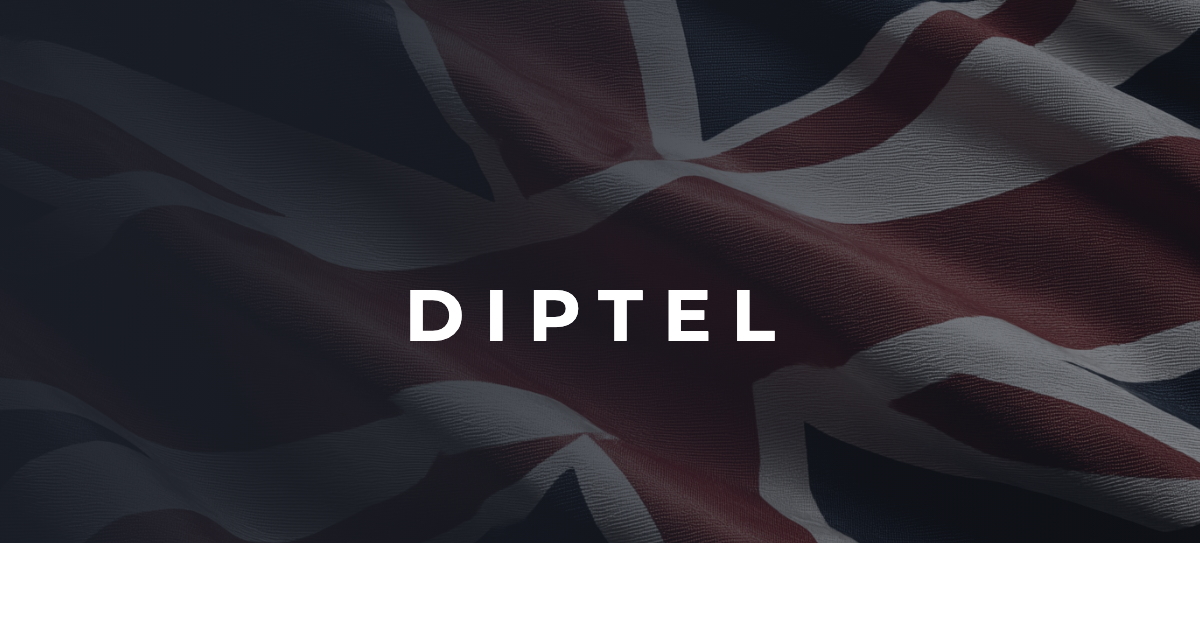
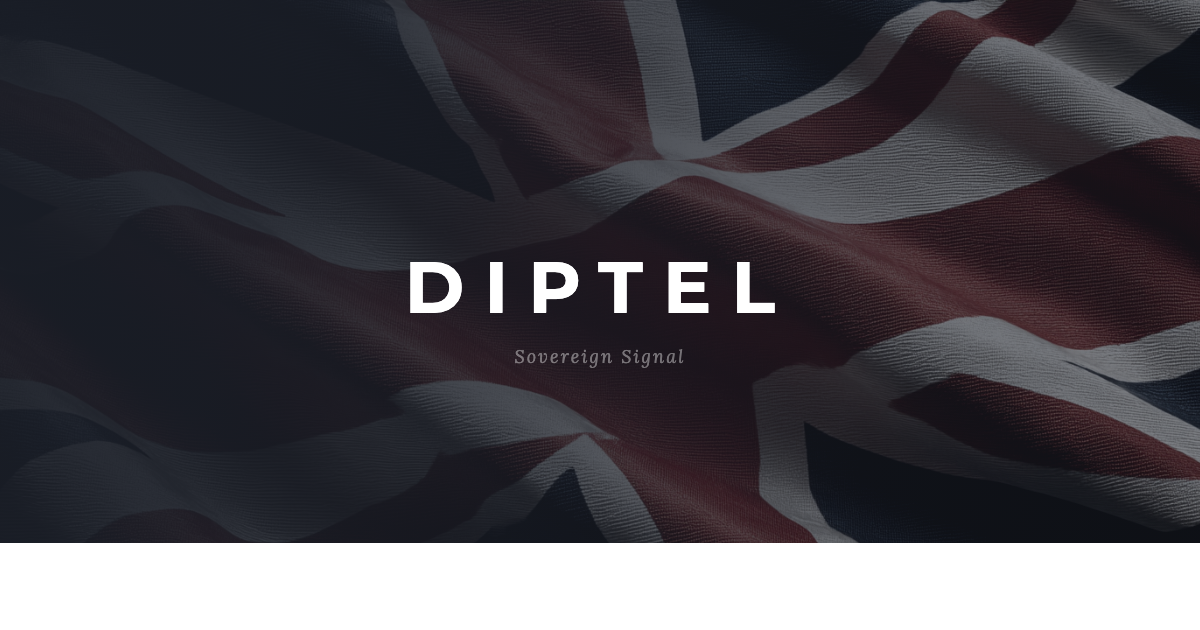
OG image — DIPTEL centred with Sovereign Signal subtitle in italic Lora

Changed region(s): [[0.3392, 0.3921, 0.6475, 0.573]]

diff --git a/sovereign-signal/og-image.html b/sovereign-signal/og-image.html
@@ -3,17 +3,22 @@
 <style>
 * { margin: 0; padding: 0; box-sizing: border-box; }
 body { width: 1200px; height: 630px; overflow: hidden; }
-.card { width: 1200px; height: 630px; background: #1a1e27; position: relative; overflow: hidden; display: flex; align-items: center; justify-content: center; }
+.card { width: 1200px; height: 630px; background: #1a1e27; position: relative; overflow: hidden; display: flex; flex-direction: column; align-items: center; justify-content: center; }
 .flag { position: absolute; top: 0; left: 0; right: 0; bottom: 0; background: url('union-flag.png') center center / cover no-repeat; opacity: 0.5; filter: saturate(0.6) contrast(1.05); }
 .overlay { position: absolute; top: 0; left: 0; right: 0; bottom: 0; background: linear-gradient(105deg, rgba(26,30,39,0.92) 0%, rgba(26,30,39,0.85) 22%, rgba(26,30,39,0.55) 48%, rgba(26,30,39,0.25) 72%, rgba(26,30,39,0.12) 100%); }
-.title { position: relative; z-index: 2; font-family: 'Montserrat', sans-serif; font-size: 72px; font-weight: 700; color: #FFFFFF; letter-spacing: 0.28em; text-transform: uppercase; }
+.brand { position: relative; z-index: 2; text-align: center; margin-top: -20px; }
+.title { font-family: 'Montserrat', sans-serif; font-size: 72px; font-weight: 700; color: #FFFFFF; letter-spacing: 0.28em; text-transform: uppercase; }
+.subtitle { font-family: 'Lora', Georgia, serif; font-size: 18px; font-weight: 400; font-style: italic; color: rgba(255,255,255,0.4); letter-spacing: 0.12em; margin-top: 14px; }
 </style>
-<link href="https://fonts.googleapis.com/css2?family=Montserrat:wght@700;800&display=swap" rel="stylesheet">
+<link href="https://fonts.googleapis.com/css2?family=Montserrat:wght@700;800&family=Lora:ital,wght@0,400;1,400&display=swap" rel="stylesheet">
 </head>
 <body>
 <div class="card">
   <div class="flag"></div>
   <div class="overlay"></div>
-  <div class="title">DIPTEL</div>
+  <div class="brand">
+    <div class="title">DIPTEL</div>
+    <div class="subtitle">Sovereign Signal</div>
+  </div>
 </div>
 </body></html>

diff --git a/sovereign-signal/index.html b/sovereign-signal/index.html
@@ -6,14 +6,14 @@
 <title>Sovereign Signal — Sentiment, Trends &amp; Predictions</title>
 <meta property="og:title" content="Sovereign Signal — Sentiment, Trends & Predictions">
 <meta property="og:description" content="Daily intelligence on the United Kingdom's external positioning — sentiment analysis, trend monitoring, and forward predictions across five strategic pillars.">
-<meta property="og:image" content="https://ivanmassow.github.io/client-reports/sovereign-signal/og-image.png?v=2">
+<meta property="og:image" content="https://ivanmassow.github.io/client-reports/sovereign-signal/og-image.png?v=3">
 <meta property="og:image:width" content="1200">
 <meta property="og:image:height" content="630">
 <meta property="og:type" content="website">
 <meta name="twitter:card" content="summary_large_image">
 <meta name="twitter:title" content="Sovereign Signal — Sentiment, Trends & Predictions">
 <meta name="twitter:description" content="Daily intelligence — sentiment, trends & predictions">
-<meta name="twitter:image" content="https://ivanmassow.github.io/client-reports/sovereign-signal/og-image.png?v=2">
+<meta name="twitter:image" content="https://ivanmassow.github.io/client-reports/sovereign-signal/og-image.png?v=3">
 <link rel="preconnect" href="https://fonts.googleapis.com">
 <link href="https://fonts.googleapis.com/css2?family=Inter:wght@400;500;600;700;800;900&family=Lora:ital,wght@0,400;0,500;0,600;0,700;1,400&family=Montserrat:wght@400;500;600;700;800&display=swap" rel="stylesheet">
 <style>

diff --git a/sovereign-signal/uk-trust-2026-02-22.html b/sovereign-signal/uk-trust-2026-02-22.html
@@ -6,12 +6,12 @@
 <title>Trust, Stability & Systemic Reliability — Sovereign Signal</title>
 <meta property="og:title" content="Trust, Stability &amp; Systemic Reliability — Sovereign Signal">
 <meta property="og:description" content="UK Trust standing intelligence &mdash; 22 February 2026">
-<meta property="og:image" content="https://ivanmassow.github.io/client-reports/sovereign-signal/og-image.png?v=2">
+<meta property="og:image" content="https://ivanmassow.github.io/client-reports/sovereign-signal/og-image.png?v=3">
 <meta property="og:image:width" content="1200">
 <meta property="og:image:height" content="630">
 <meta name="twitter:card" content="summary_large_image">
 <meta name="twitter:title" content="Trust, Stability &amp; Systemic Reliability — Sovereign Signal">
-<meta name="twitter:image" content="https://ivanmassow.github.io/client-reports/sovereign-signal/og-image.png?v=2">
+<meta name="twitter:image" content="https://ivanmassow.github.io/client-reports/sovereign-signal/og-image.png?v=3">
 <link rel="preconnect" href="https://fonts.googleapis.com">
 <link href="https://fonts.googleapis.com/css2?family=Inter:wght@400;500;600;700;800;900&family=Lora:ital,wght@0,400;0,500;0,600;0,700;1,400&family=Montserrat:wght@400;500;600;700;800&display=swap" rel="stylesheet">
 <style>

diff --git a/sovereign-signal/uk-defence-2026-02-22.html b/sovereign-signal/uk-defence-2026-02-22.html
@@ -6,12 +6,12 @@
 <title>Defence & Strategic Credibility — Sovereign Signal</title>
 <meta property="og:title" content="Defence &amp; Strategic Credibility — Sovereign Signal">
 <meta property="og:description" content="UK Defence standing intelligence &mdash; 22 February 2026">
-<meta property="og:image" content="https://ivanmassow.github.io/client-reports/sovereign-signal/og-image.png?v=2">
+<meta property="og:image" content="https://ivanmassow.github.io/client-reports/sovereign-signal/og-image.png?v=3">
 <meta property="og:image:width" content="1200">
 <meta property="og:image:height" content="630">
 <meta name="twitter:card" content="summary_large_image">
 <meta name="twitter:title" content="Defence &amp; Strategic Credibility — Sovereign Signal">
-<meta name="twitter:image" content="https://ivanmassow.github.io/client-reports/sovereign-signal/og-image.png?v=2">
+<meta name="twitter:image" content="https://ivanmassow.github.io/client-reports/sovereign-signal/og-image.png?v=3">
 <link rel="preconnect" href="https://fonts.googleapis.com">
 <link href="https://fonts.googleapis.com/css2?family=Inter:wght@400;500;600;700;800;900&family=Lora:ital,wght@0,400;0,500;0,600;0,700;1,400&family=Montserrat:wght@400;500;600;700;800&display=swap" rel="stylesheet">
 <style>

diff --git a/sovereign-signal/uk-diplomatic-2026-02-22.html b/sovereign-signal/uk-diplomatic-2026-02-22.html
@@ -6,12 +6,12 @@
 <title>Diplomatic & Global Leadership — Sovereign Signal</title>
 <meta property="og:title" content="Diplomatic &amp; Global Leadership — Sovereign Signal">
 <meta property="og:description" content="UK Diplomatic standing intelligence &mdash; 22 February 2026">
-<meta property="og:image" content="https://ivanmassow.github.io/client-reports/sovereign-signal/og-image.png?v=2">
+<meta property="og:image" content="https://ivanmassow.github.io/client-reports/sovereign-signal/og-image.png?v=3">
 <meta property="og:image:width" content="1200">
 <meta property="og:image:height" content="630">
 <meta name="twitter:card" content="summary_large_image">
 <meta name="twitter:title" content="Diplomatic &amp; Global Leadership — Sovereign Signal">
-<meta name="twitter:image" content="https://ivanmassow.github.io/client-reports/sovereign-signal/og-image.png?v=2">
+<meta name="twitter:image" content="https://ivanmassow.github.io/client-reports/sovereign-signal/og-image.png?v=3">
 <link rel="preconnect" href="https://fonts.googleapis.com">
 <link href="https://fonts.googleapis.com/css2?family=Inter:wght@400;500;600;700;800;900&family=Lora:ital,wght@0,400;0,500;0,600;0,700;1,400&family=Montserrat:wght@400;500;600;700;800&display=swap" rel="stylesheet">
 <style>

diff --git a/sovereign-signal/uk-softpower-2026-02-22.html b/sovereign-signal/uk-softpower-2026-02-22.html
@@ -6,12 +6,12 @@
 <title>Soft Power & Cultural Standing — Sovereign Signal</title>
 <meta property="og:title" content="Soft Power &amp; Cultural Standing — Sovereign Signal">
 <meta property="og:description" content="UK Soft Power standing intelligence &mdash; 22 February 2026">
-<meta property="og:image" content="https://ivanmassow.github.io/client-reports/sovereign-signal/og-image.png?v=2">
+<meta property="og:image" content="https://ivanmassow.github.io/client-reports/sovereign-signal/og-image.png?v=3">
 <meta property="og:image:width" content="1200">
 <meta property="og:image:height" content="630">
 <meta name="twitter:card" content="summary_large_image">
 <meta name="twitter:title" content="Soft Power &amp; Cultural Standing — Sovereign Signal">
-<meta name="twitter:image" content="https://ivanmassow.github.io/client-reports/sovereign-signal/og-image.png?v=2">
+<meta name="twitter:image" content="https://ivanmassow.github.io/client-reports/sovereign-signal/og-image.png?v=3">
 <link rel="preconnect" href="https://fonts.googleapis.com">
 <link href="https://fonts.googleapis.com/css2?family=Inter:wght@400;500;600;700;800;900&family=Lora:ital,wght@0,400;0,500;0,600;0,700;1,400&family=Montserrat:wght@400;500;600;700;800&display=swap" rel="stylesheet">
 <style>

diff --git a/sovereign-signal/uk-economic-2026-02-22.html b/sovereign-signal/uk-economic-2026-02-22.html
@@ -6,12 +6,12 @@
 <title>Economic & Business Leadership — Sovereign Signal</title>
 <meta property="og:title" content="Economic &amp; Business Leadership — Sovereign Signal">
 <meta property="og:description" content="UK Economic standing intelligence &mdash; 22 February 2026">
-<meta property="og:image" content="https://ivanmassow.github.io/client-reports/sovereign-signal/og-image.png?v=2">
+<meta property="og:image" content="https://ivanmassow.github.io/client-reports/sovereign-signal/og-image.png?v=3">
 <meta property="og:image:width" content="1200">
 <meta property="og:image:height" content="630">
 <meta name="twitter:card" content="summary_large_image">
 <meta name="twitter:title" content="Economic &amp; Business Leadership — Sovereign Signal">
-<meta name="twitter:image" content="https://ivanmassow.github.io/client-reports/sovereign-signal/og-image.png?v=2">
+<meta name="twitter:image" content="https://ivanmassow.github.io/client-reports/sovereign-signal/og-image.png?v=3">
 <link rel="preconnect" href="https://fonts.googleapis.com">
 <link href="https://fonts.googleapis.com/css2?family=Inter:wght@400;500;600;700;800;900&family=Lora:ital,wght@0,400;0,500;0,600;0,700;1,400&family=Montserrat:wght@400;500;600;700;800&display=swap" rel="stylesheet">
 <style>

diff --git a/sovereign-signal/methodology.html b/sovereign-signal/methodology.html
@@ -6,7 +6,7 @@
 <title>Methodology — Sovereign Signal</title>
 <meta property="og:title" content="Methodology — Sovereign Signal">
 <meta property="og:description" content="How narrative signal processing powers government-grade intelligence on sentiment, trends, and predictions.">
-<meta property="og:image" content="https://ivanmassow.github.io/client-reports/sovereign-signal/og-image.png?v=2">
+<meta property="og:image" content="https://ivanmassow.github.io/client-reports/sovereign-signal/og-image.png?v=3">
 <meta property="og:type" content="article">
 <meta name="twitter:card" content="summary_large_image">
 <link rel="preconnect" href="https://fonts.googleapis.com">

diff --git a/sovereign-signal/poller.py b/sovereign-signal/poller.py
@@ -1035,18 +1035,23 @@ def _generate_og_image(display_date, composite, composite_posture, pillar_data):
 <style>
 * {{ margin: 0; padding: 0; box-sizing: border-box; }}
 body {{ width: 1200px; height: 630px; overflow: hidden; }}
-.card {{ width: 1200px; height: 630px; background: #1a1e27; position: relative; overflow: hidden; display: flex; align-items: center; justify-content: center; }}
+.card {{ width: 1200px; height: 630px; background: #1a1e27; position: relative; overflow: hidden; display: flex; flex-direction: column; align-items: center; justify-content: center; }}
 .flag {{ position: absolute; top: 0; left: 0; right: 0; bottom: 0; background: url('union-flag.png') center center / cover no-repeat; opacity: 0.5; filter: saturate(0.6) contrast(1.05); }}
 .overlay {{ position: absolute; top: 0; left: 0; right: 0; bottom: 0; background: linear-gradient(105deg, rgba(26,30,39,0.92) 0%, rgba(26,30,39,0.85) 22%, rgba(26,30,39,0.55) 48%, rgba(26,30,39,0.25) 72%, rgba(26,30,39,0.12) 100%); }}
-.title {{ position: relative; z-index: 2; font-family: 'Montserrat', sans-serif; font-size: 72px; font-weight: 700; color: #FFFFFF; letter-spacing: 0.28em; text-transform: uppercase; }}
+.brand {{ position: relative; z-index: 2; text-align: center; margin-top: -20px; }}
+.title {{ font-family: 'Montserrat', sans-serif; font-size: 72px; font-weight: 700; color: #FFFFFF; letter-spacing: 0.28em; text-transform: uppercase; }}
+.subtitle {{ font-family: 'Lora', Georgia, serif; font-size: 18px; font-weight: 400; font-style: italic; color: rgba(255,255,255,0.4); letter-spacing: 0.12em; margin-top: 14px; }}
 </style>
-<link href="https://fonts.googleapis.com/css2?family=Montserrat:wght@700;800&display=swap" rel="stylesheet">
+<link href="https://fonts.googleapis.com/css2?family=Montserrat:wght@700;800&family=Lora:ital,wght@0,400;1,400&display=swap" rel="stylesheet">
 </head>
 <body>
 <div class="card">
   <div class="flag"></div>
   <div class="overlay"></div>
-  <div class="title">DIPTEL</div>
+  <div class="brand">
+    <div class="title">DIPTEL</div>
+    <div class="subtitle">Sovereign Signal</div>
+  </div>
 </div>
 </body></html>"""
 
@@ -1373,14 +1378,14 @@ def _build_dashboard_html(target_date, display_date, composite, composite_delta,
 <title>Sovereign Signal — Sentiment, Trends &amp; Predictions</title>
 <meta property="og:title" content="Sovereign Signal — Sentiment, Trends & Predictions">
 <meta property="og:description" content="Daily intelligence on the United Kingdom's external positioning — sentiment analysis, trend monitoring, and forward predictions across five strategic pillars.">
-<meta property="og:image" content="https://ivanmassow.github.io/client-reports/sovereign-signal/og-image.png?v=2">
+<meta property="og:image" content="https://ivanmassow.github.io/client-reports/sovereign-signal/og-image.png?v=3">
 <meta property="og:image:width" content="1200">
 <meta property="og:image:height" content="630">
 <meta property="og:type" content="website">
 <meta name="twitter:card" content="summary_large_image">
 <meta name="twitter:title" content="Sovereign Signal — Sentiment, Trends & Predictions">
 <meta name="twitter:description" content="Daily intelligence — sentiment, trends & predictions">
-<meta name="twitter:image" content="https://ivanmassow.github.io/client-reports/sovereign-signal/og-image.png?v=2">
+<meta name="twitter:image" content="https://ivanmassow.github.io/client-reports/sovereign-signal/og-image.png?v=3">
 <link rel="preconnect" href="https://fonts.googleapis.com">
 <link href="https://fonts.googleapis.com/css2?family=Inter:wght@400;500;600;700;800;900&family=Lora:ital,wght@0,400;0,500;0,600;0,700;1,400&family=Montserrat:wght@400;500;600;700;800&display=swap" rel="stylesheet">
 <style>
@@ -1862,12 +1867,12 @@ def generate_pillar_report(key, pillar, pdata, target_date, report_link):
 <title>{headline}</title>
 <meta property="og:title" content="{html.escape(headline)}">
 <meta property="og:description" content="UK {pillar['short']} standing intelligence &mdash; {display_date}">
-<meta property="og:image" content="https://ivanmassow.github.io/client-reports/sovereign-signal/og-image.png?v=2">
+<meta property="og:image" content="https://ivanmassow.github.io/client-reports/sovereign-signal/og-image.png?v=3">
 <meta property="og:image:width" content="1200">
 <meta property="og:image:height" content="630">
 <meta name="twitter:card" content="summary_large_image">
 <meta name="twitter:title" content="{html.escape(headline)}">
-<meta name="twitter:image" content="https://ivanmassow.github.io/client-reports/sovereign-signal/og-image.png?v=2">
+<meta name="twitter:image" content="https://ivanmassow.github.io/client-reports/sovereign-signal/og-image.png?v=3">
 <link rel="preconnect" href="https://fonts.googleapis.com">
 <link href="https://fonts.googleapis.com/css2?family=Inter:wght@400;500;600;700;800;900&family=Lora:ital,wght@0,400;0,500;0,600;0,700;1,400&family=Montserrat:wght@400;500;600;700;800&display=swap" rel="stylesheet">
 <style>
